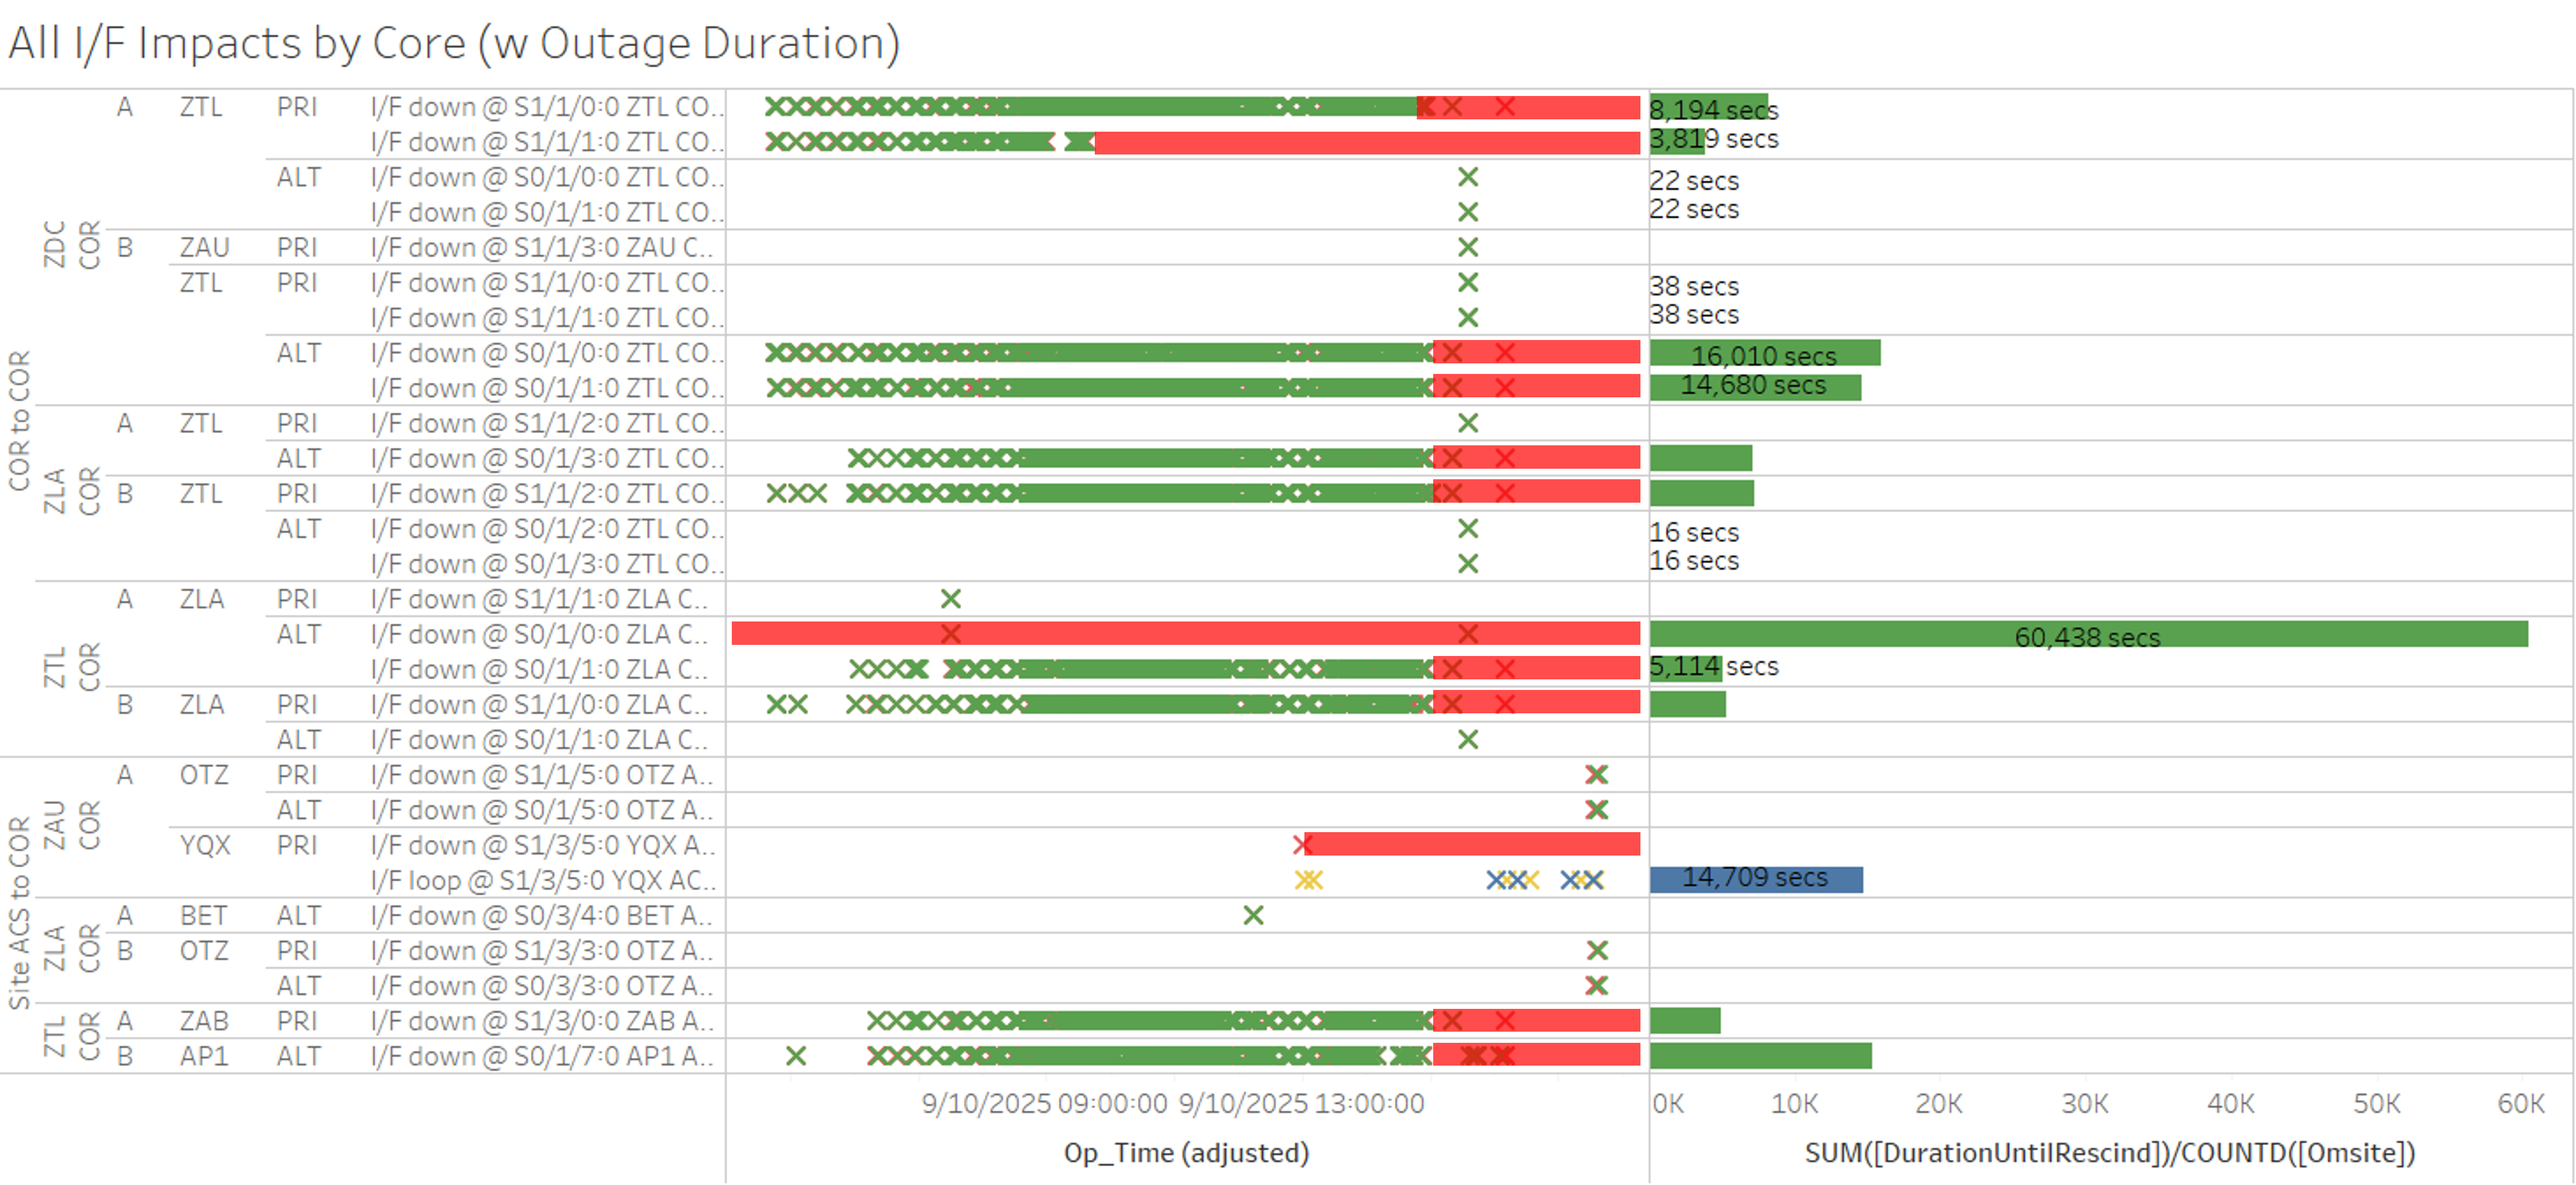
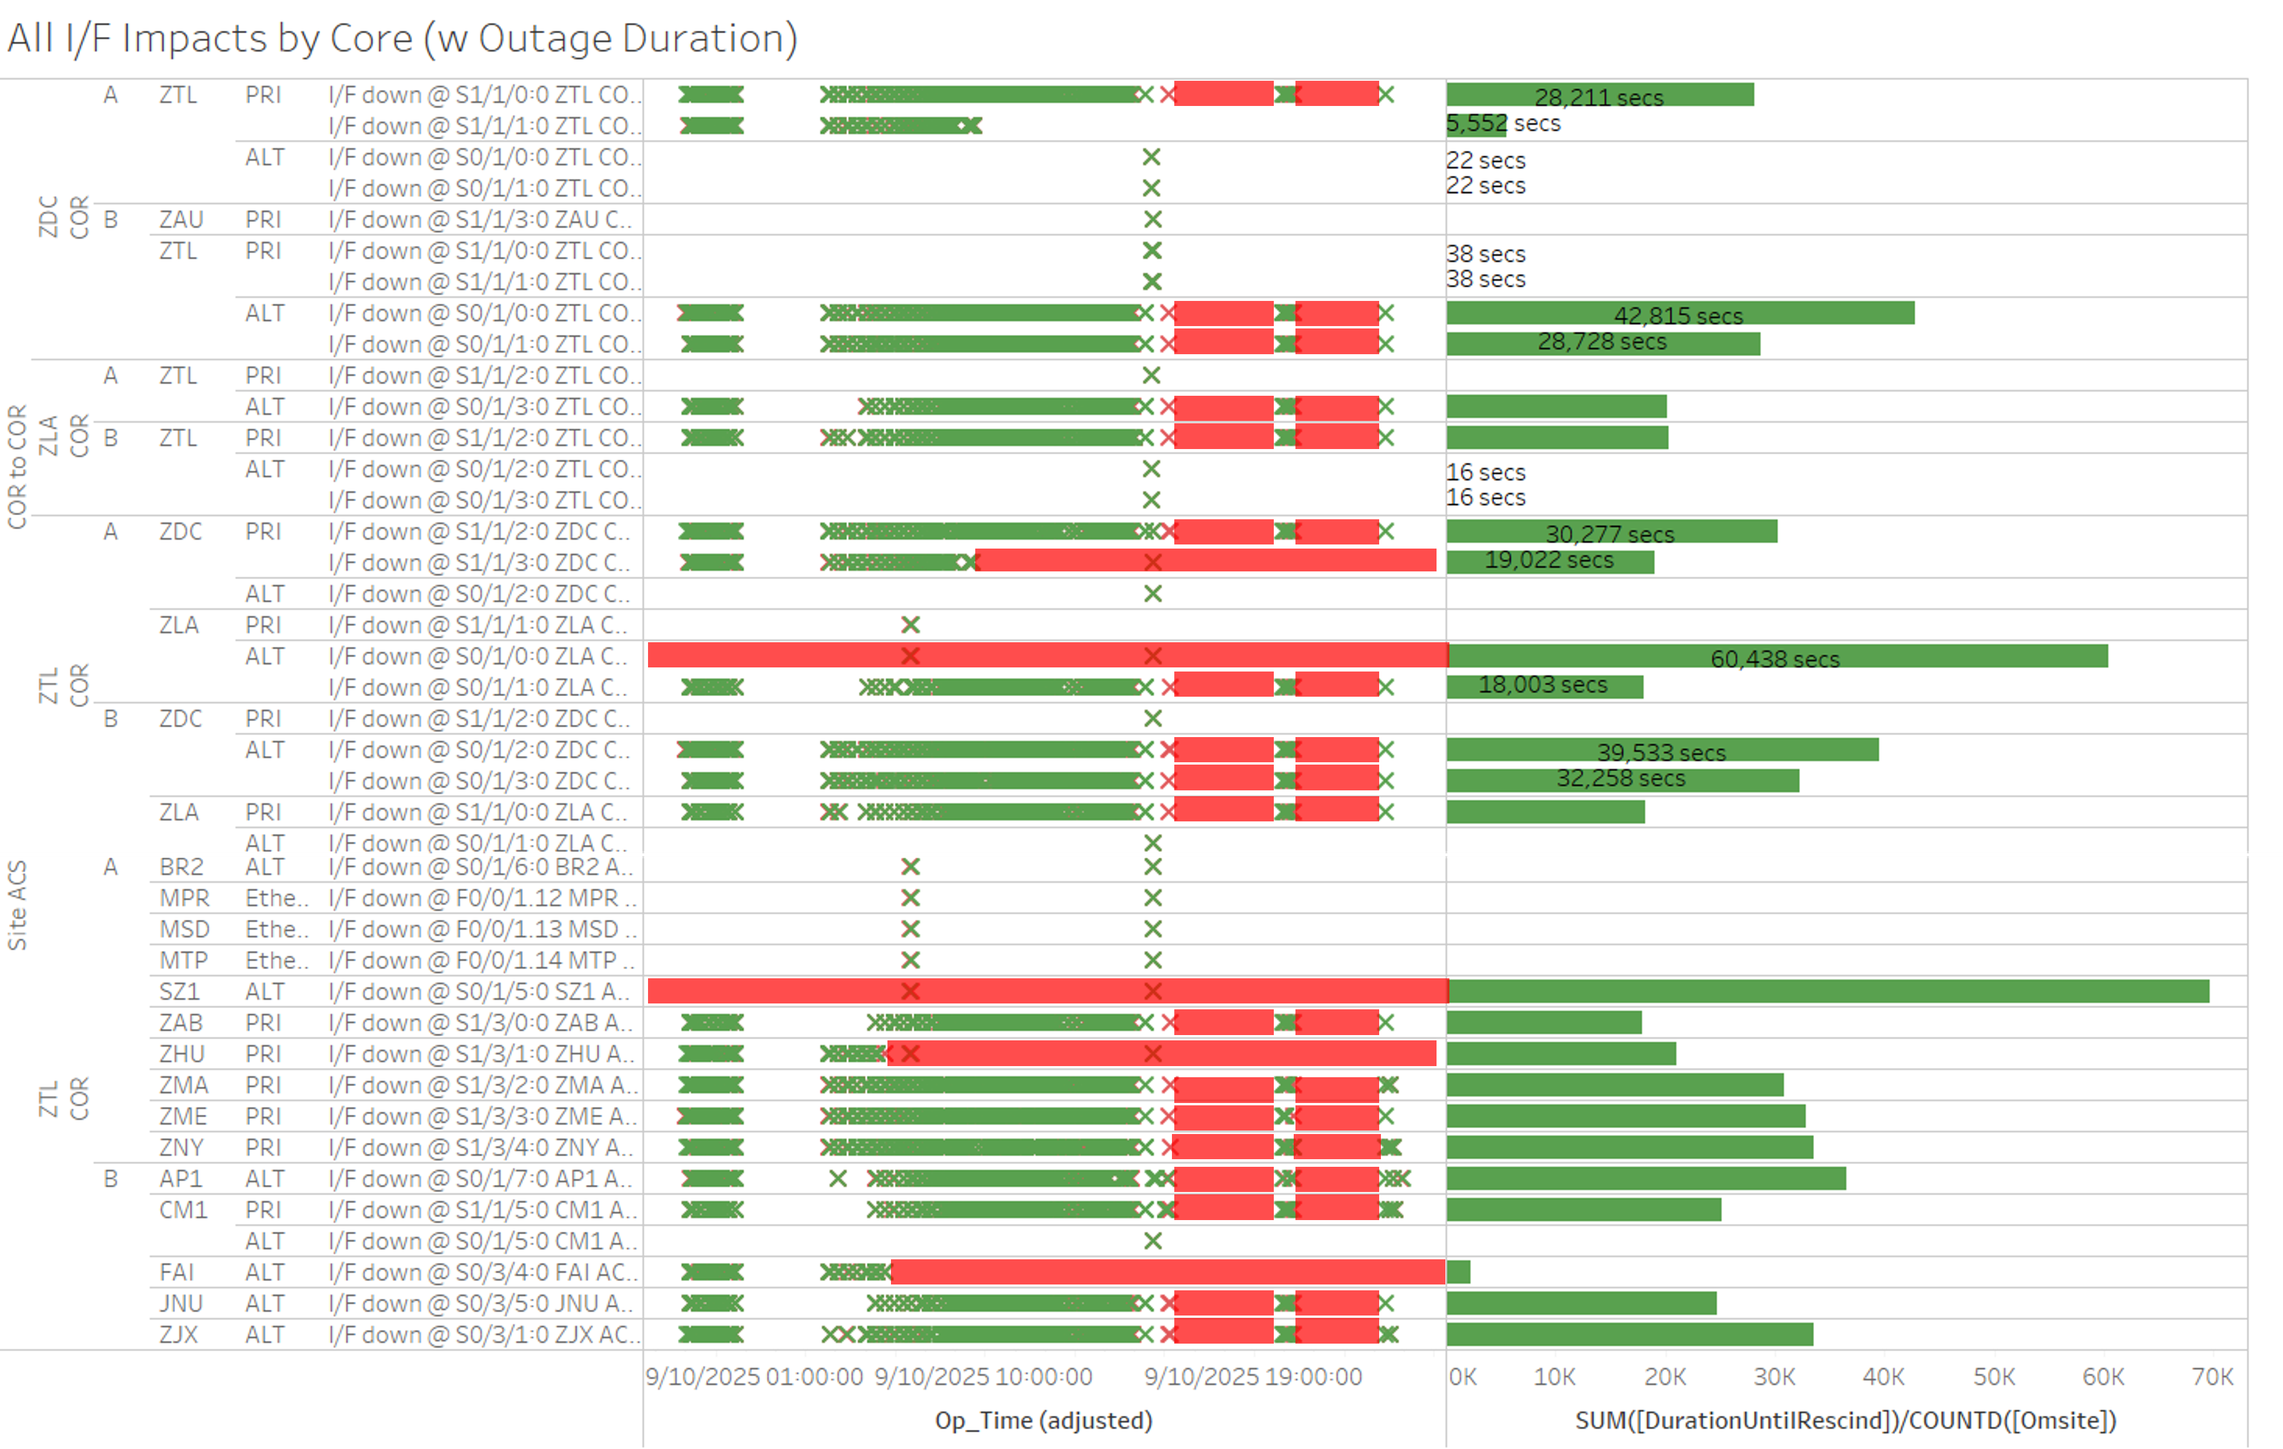
added further notes about comms down out of ZTL

diff --git a/sysmon/index.html b/sysmon/index.html
@@ -185,15 +185,38 @@
                                                                               <li>9/10 15:35 - SE 756 Message Type 0 for
                                                                                     the ZTL C&amp;V rescinding after ~6
                                                                                     seconds</li>
-                                                                              <li>9/10 16:09 - Core-Core comms + ZAB
-                                                                                    Ring 1 PRI + AP1 Ring 2 ALT comms
-                                                                                    down hard...</li>
+                                                                              <li>9/10 16:09 - Core-Core comms +
+                                                                                    multiple sites comms down hard;
+                                                                                    <strong>lines came back up to
+                                                                                          flapping at 9/10 19:55 (~13585
+                                                                                          seconds)</strong>
+                                                                              </li>
+                                                                              <li>9/10 20:16 - Core-Core comms +
+                                                                                    multiple sites comms down hard
+                                                                                    again; <strong>lines cleared at 9/10
+                                                                                          23:22 (~11151
+                                                                                          seconds)</strong>, but some
+                                                                                    comms still down and AP1 Ring 2 ALT
+                                                                                    still flapping...</li>
                                                                         </ul>
+
                                                                   </li>
                                                             </ul>
                                                             <p class="text-center"><img class="img-thumbnail col-md-12"
                                                                         src="img/20250910_ZTL_comms_fiber_cut.png"
                                                                         alt="20250910 - ZTL Comm Fiber Cut"></p>
+                                                            <p class="fw-bold">Ongoing comms down:</p>
+                                                            <ul>
+                                                                  <li>ZDC-ZTL Ring 1 PRI (S1/1/3:0 at ZTL)</li>
+                                                                  <li>ZLA-ZTL Ring 1 ALT (S0/1/0:0 at ZTL)</li>
+                                                                  <li>BR2 Ring 1 PRI</li>
+                                                                  <li>SZ1 Ring 1 ALT</li>
+                                                                  <li>ZHU Ring 1 PRI</li>
+                                                                  <li>ZFW Ring 2 ALT</li>
+                                                                  <li>ZKC Ring 2 ALT</li>
+                                                                  <li>ZSU Ring 2 ALT</li>
+                                                                  <li>FAI Ring 2 ALT</li>
+                                                            </ul>
                                                       </div>
                                                 </div>
 
@@ -256,11 +279,13 @@
                                                                                     Error</li>
                                                                         </ul>
                                                                   </li>
+                                                                  <li>9/9 08:54 - SZ1 Ring 1 ALT comms down hard...</li>
                                                                   <li>9/10 13:00 - YQX Ring 1 comms down hard and looped
                                                                         back...</li>
                                                                   <li>9/10 17:34 - OTZ Ring 1 / Ring 2 comms down hard;
                                                                         <strong>all lines cleared at 9/10 17:37 (~165
-                                                                              seconds)</strong></li>
+                                                                              seconds)</strong>
+                                                                  </li>
                                                             </ul>
 
 
